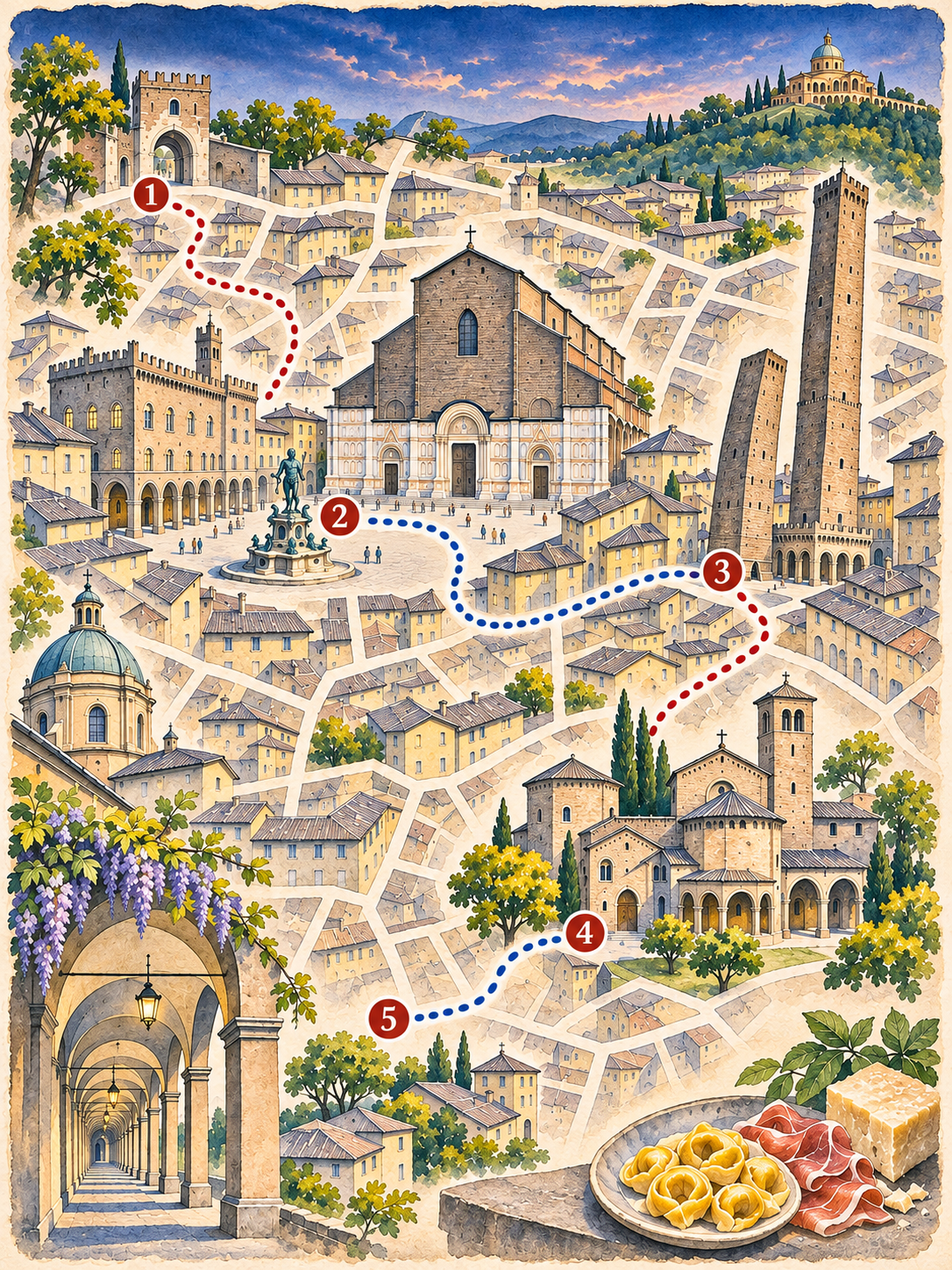
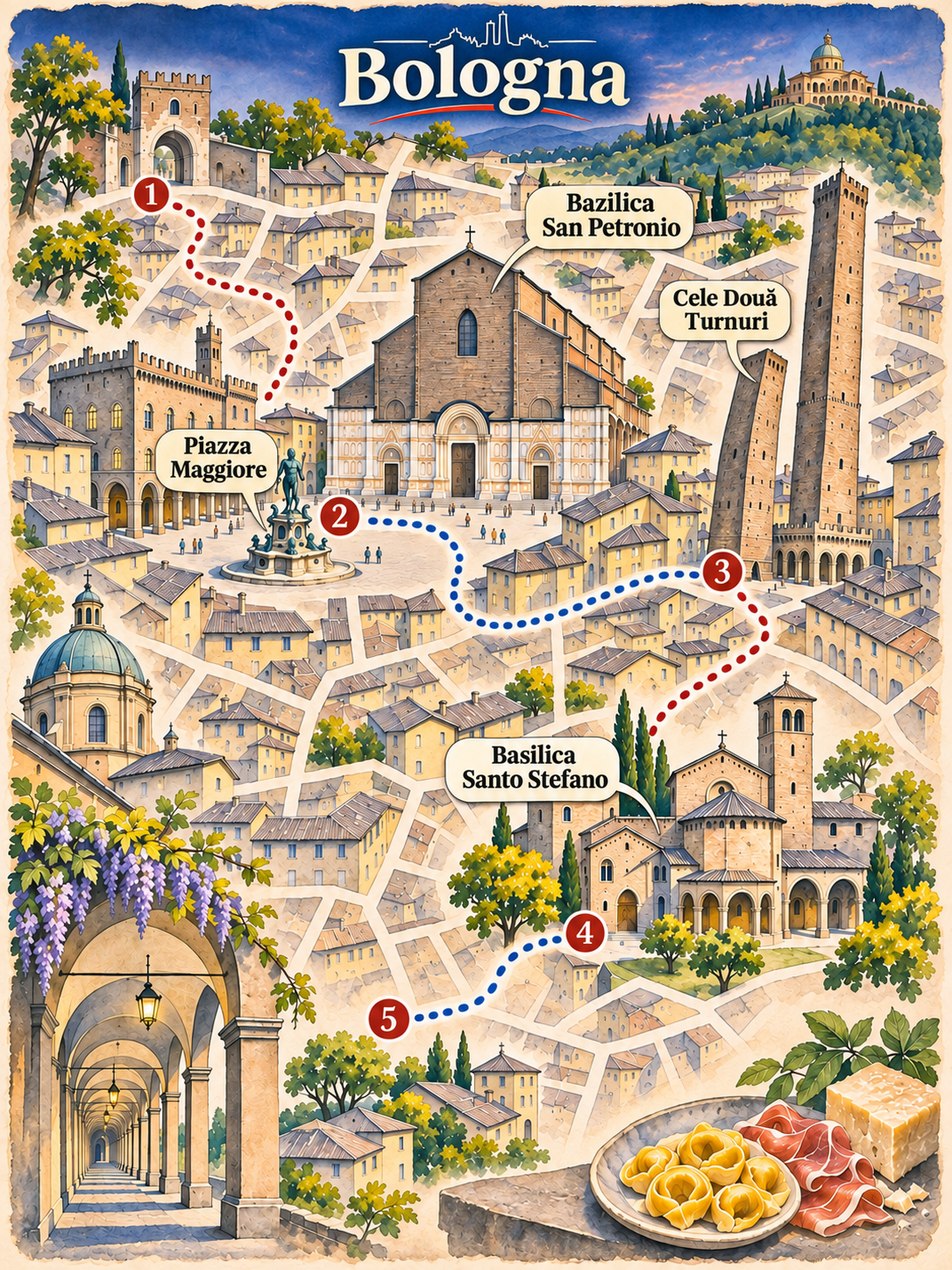
Label Bologna Lyon and Porto maps

Changed region(s): [[0.0, 0.0, 1.0, 0.9945]]

diff --git a/ILUSTRATII.md b/ILUSTRATII.md
@@ -18,9 +18,12 @@ Se adaugă numele obiectivelor direct pe hărțile existente, în stilul aprobat
 - Viena
 - Milano
 - Madrid
+- Bologna
+- Lyon
+- Porto
 
 Harta originală pentru Praga avea deja etichete. Celelalte orașe din `assets/guides-prague-style/` necesită în continuare verificare și prelucrare. Actualizează această listă în același commit cu fiecare lot nou.
 
-Ilustrațiile fără etichete sunt păstrate în istoricul Git: pentru Roma și Barcelona folosește fișierul de la commitul `14f016a`, iar pentru Paris, Londra, Lisabona, Berlin și Bruxelles de la `508e691`. Pentru Budapesta, Atena, Veneția, Amsterdam, Viena, Milano și Madrid se pot folosi originalele de la `48efdd5`. Copii locale sunt în `/workspace/guide-batch/original-illustrations` când acel director este disponibil. Păstrează imaginile originale pentru quiz.
+Ilustrațiile fără etichete sunt păstrate în istoricul Git: pentru Roma și Barcelona folosește fișierul de la commitul `14f016a`, iar pentru Paris, Londra, Lisabona, Berlin și Bruxelles de la `508e691`. Pentru Budapesta, Atena, Veneția, Amsterdam, Viena, Milano, Madrid, Bologna, Lyon și Porto se pot folosi originalele de la `48efdd5`. Copii locale sunt în `/workspace/guide-batch/original-illustrations` când acel director este disponibil. Păstrează imaginile originale pentru quiz.
 
 Nu modifica funcționalitatea de căutare a zborurilor în cadrul acestei activități.
